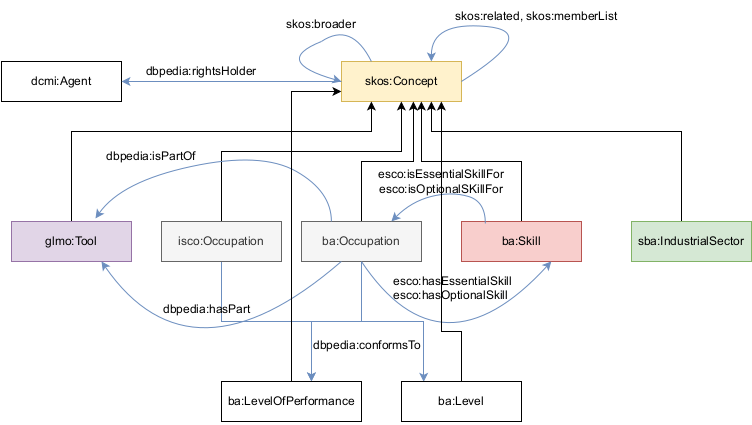
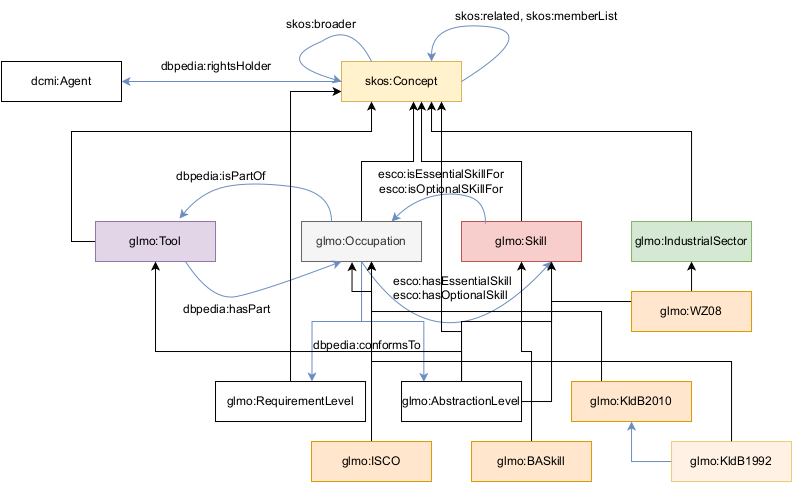
Neue Abbildung/ Ergänzungen

diff --git a/glmo/index.html b/glmo/index.html
@@ -48,9 +48,9 @@ table.rdf td:first-child {
 <div class="head"><h1>The GLMO Ontology</h1>
     <dl>
         <dt>IRI:</dt>
-        <dd>https://tm4vetr.github.io/glmo/model</dd>
+        <dd>http://w3id.org/glmo</dd>
         <dt>Version IRI:</dt>
-        <dd>https://tm4vetr.github.io/glmo/model/1.0</dd>
+        <dd>http://w3id.org/glmo/1.0</dd>
     </dl>
     <dl>
         <dt>Current version:
@@ -72,9 +72,6 @@ table.rdf td:first-child {
         <dt>Ontology Namespace:
         </dt>
         <dd>@prefix glmo: http://w3id.org/glmo#</dd>
-        <dd>@prefix ba: http://w3id.org/glmo#</dd>
-        <dd>@prefix sba: http://w3id.org/glmo#</dd>
-        <dd>@prefix isco: http://w3id.org/glmo#</dd>
     </dl>
     <dl>
         <dt>Imported Ontologies:
@@ -111,27 +108,69 @@ table.rdf td:first-child {
 <div id="classes"><h2>Classes</h2>
 
 <a name="Occupation">
-<h3>[isco/ba:]Occupation</h3>
+<h3>glmo:Occupation</h3>
 <table class="ontdoctable"> 
 <tr><td class="rowheader">Superclasses </td><td> skos:Concept</td></tr> 
-<tr><td class="rowheader">Subclasses </td><td> --</td></tr> 
+<tr><td class="rowheader">Subclasses </td><td> <a href="#ISCO">glmo:ISCO</a>, <a href="#KldB2010">glmo:KldB2010</a>, <a href="#KldB1992">glmo:KldB1992</a></td></tr> 
 <tr><td class="rowheader">In domain of: </td><td>  <a href="#needsSkill">dbpedia:hasPart</a>,  <a href="#requiresQualification">esco:hasEssentialSkill</a>,  <a href="#requiresQualification">esco:hasOptionalSkill</a></td></tr> 
 <tr><td class="rowheader">In range of: </td><td>  <a href="#hasCapability">dbpedia:conformsTo</a></td></tr> 
 <tr><td>Description </td><td> This class represents an occupation. </td></tr> 
 </table>
 
+<a name="ISCO">
+<h3>glmo:ISCO</h3>
+<table class="ontdoctable"> 
+<tr><td class="rowheader">Superclasses </td><td> <a href="#Occupation">glmo:Occupation</a></td></tr> 
+<tr><td class="rowheader">Subclasses </td><td> -- </td></tr> 
+<tr><td class="rowheader">In domain of: </td><td>  <a href="#needsSkill">dbpedia:hasPart</a>,  <a href="#requiresQualification">esco:hasEssentialSkill</a>,  <a href="#requiresQualification">esco:hasOptionalSkill</a></td></tr> 
+<tr><td class="rowheader">In range of: </td><td>  <a href="#hasCapability">dbpedia:conformsTo</a></td></tr> 
+<tr><td>Description </td><td> This class represents an ISCO occupation. </td></tr> 
+</table>
+
+
+<a name="KldB2010">
+<h3>glmo:KldB2010</h3>
+<table class="ontdoctable"> 
+<tr><td class="rowheader">Superclasses </td><td> <a href="#Occupation">glmo:Occupation</a></td></tr> 
+<tr><td class="rowheader">Subclasses </td><td> -- </td></tr> 
+<tr><td class="rowheader">In domain of: </td><td>  <a href="#needsSkill">dbpedia:hasPart</a>,  <a href="#requiresQualification">esco:hasEssentialSkill</a>,  <a href="#requiresQualification">esco:hasOptionalSkill</a></td></tr> 
+<tr><td class="rowheader">In range of: </td><td>  <a href="#hasCapability">dbpedia:conformsTo</a></td></tr> 
+<tr><td>Description </td><td> This class represents an KldB2010 occupation. </td></tr> 
+</table>
+
+<a name="KldB1992">
+<h3>glmo:KldB1992</h3>
+<table class="ontdoctable"> 
+<tr><td class="rowheader">Superclasses </td><td> <a href="#Occupation">glmo:Occupation</a></td></tr> 
+<tr><td class="rowheader">Subclasses </td><td> -- </td></tr> 
+<tr><td class="rowheader">In domain of: </td><td>  <a href="#needsSkill">dbpedia:hasPart</a>,  <a href="#requiresQualification">esco:hasEssentialSkill</a>,  <a href="#requiresQualification">esco:hasOptionalSkill</a></td></tr> 
+<tr><td class="rowheader">In range of: </td><td>  <a href="#hasCapability">dbpedia:conformsTo</a></td></tr> 
+<tr><td>Description </td><td> This class represents an KldB1992 occupation (currently not used). </td></tr> 
+</table>
+
 <a name="Skill">
-<h3>ba:Skill</h3>
+<h3>glmo:Skill</h3>
 <table class="ontdoctable"> 
 <tr><td class="rowheader">Superclasses </td><td> skos:Concept</td></tr> 
-<tr><td class="rowheader">Subclasses </td><td> --</td></tr> 
+<tr><td class="rowheader">Subclasses </td><td> <a href="#BASkill">glmo:BASkill</a></td></tr> 
 <tr><td class="rowheader">In domain of: </td><td>  <a href="#requiresQualification">esco:isEssentialSkillForl</a>,  <a href="#requiresQualification">esco:isOptionalSKillFor</a> </td></tr> 
 <tr><td class="rowheader">In range of: </td><td>   <a href="#requiresQualification">esco:hasEssentialSkill</a>,  <a href="#requiresQualification">esco:hasOptionalSkill</a></td></tr> 
 <tr><td>Description </td><td> This class represents a Skill. </td></tr> 
 </table>
 
+
+<a name="BASkill">
+<h3>glmo:BASkill</h3>
+<table class="ontdoctable"> 
+<tr><td class="rowheader">Superclasses </td><td> <a href="#BASkill">glmo:Skill</a></td></tr> 
+<tr><td class="rowheader">Subclasses </td><td> -- </td></tr> 
+<tr><td class="rowheader">In domain of: </td><td>  <a href="#requiresQualification">esco:isEssentialSkillForl</a>,  <a href="#requiresQualification">esco:isOptionalSKillFor</a> </td></tr> 
+<tr><td class="rowheader">In range of: </td><td>   <a href="#requiresQualification">esco:hasEssentialSkill</a>,  <a href="#requiresQualification">esco:hasOptionalSkill</a></td></tr> 
+<tr><td>Description </td><td> This class represents a Skill from the BA dataset. </td></tr> 
+</table>
+
 <a name="Tool">
-<h3>Tool</h3>
+<h3>glmo:Tool</h3>
 <table class="ontdoctable"> 
 <tr><td class="rowheader">Superclasses </td><td> skos:Concept</td></tr> 
 <tr><td class="rowheader">Subclasses </td><td> --</td></tr> 
@@ -141,16 +180,24 @@ table.rdf td:first-child {
 </table>
 
 <a name="IndustrialSector">
-<h3>sba:IndustrialSector</h3>
+<h3>glmo:IndustrialSector</h3>
 <table class="ontdoctable"> 
 <tr><td class="rowheader">Superclasses </td><td> skos:Concept</td></tr> 
-<tr><td class="rowheader">Subclasses </td><td> --</td></tr> 
+<tr><td class="rowheader">Subclasses </td><td> <a href="#WZ08">glmo:WZ08</a></td></tr> 
 <tr><td class="rowheader">In domain of: </td><td>  --</td></tr> 
 <tr><td class="rowheader">In range of: </td><td>    --</td></tr> 
 <tr><td>Description </td><td> This class represents an industrial sector. </td></tr> 
 </table>
 
-
+<a name="WZ08">
+<h3>glmo:WZ08</h3>
+<table class="ontdoctable"> 
+<tr><td class="rowheader">Superclasses </td><td> <a href="#IndustrialSector">glmo:IndustrialSector</a></td></tr> 
+<tr><td class="rowheader">Subclasses </td><td>-- </td></tr> 
+<tr><td class="rowheader">In domain of: </td><td>  --</td></tr> 
+<tr><td class="rowheader">In range of: </td><td>    --</td></tr> 
+<tr><td>Description </td><td> This class represents an industrial sector according to WZ08. </td></tr> 
+</table>
 
 </div> <!--Classes -->
 
@@ -159,8 +206,24 @@ table.rdf td:first-child {
 
 This ontology currently does not contain original object properties.
 
+<div id="dataproperties"><h2>Data Properties</h2>
+
+<a name="hasZustand">
+<h3>glmo:hasZustand</h3>
+The data property glmo:hasZustand can be used to associate an occupation with each "Zustand", a term introduced by BA.
 
 
+<div id="namedindividuals"><h2>Named Individuals</h2>
+
+This ontology currently does not contain original Named Individuals.
+
+<div id="annotationproperties"><h2>Annotation Properties</h2>
+
+This ontology currently does not contain original Annotation Properties.
+
+<div id="namespacedeclarations"><h2>Namespace Declarations</h2>
+
+This ontology currently does not contain original Namespace Declarations.
 
 </div> <!--properties -->
 
